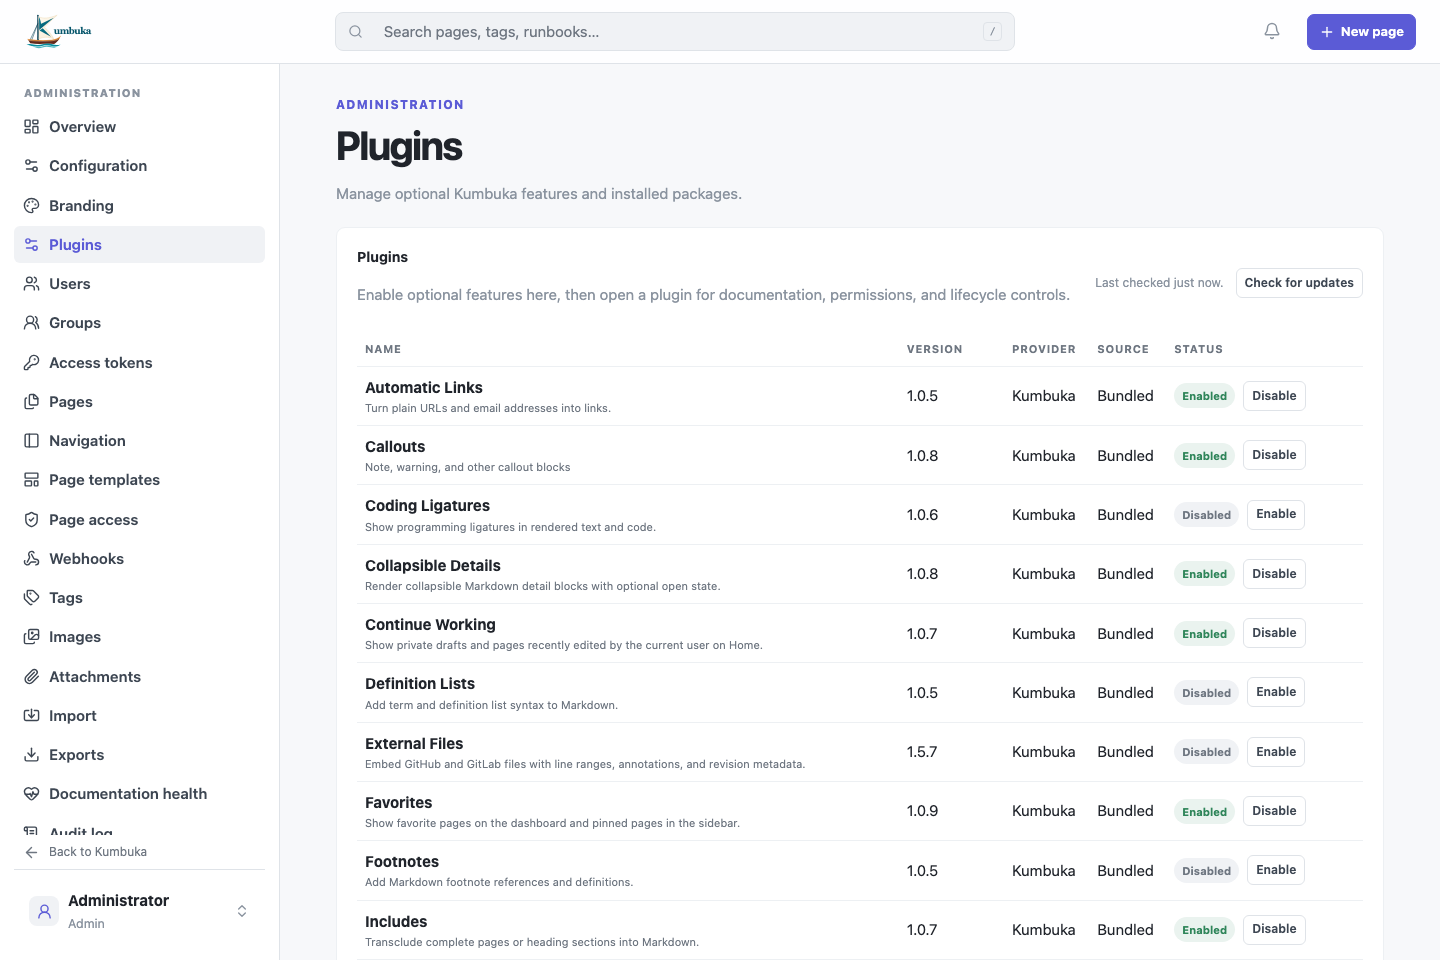
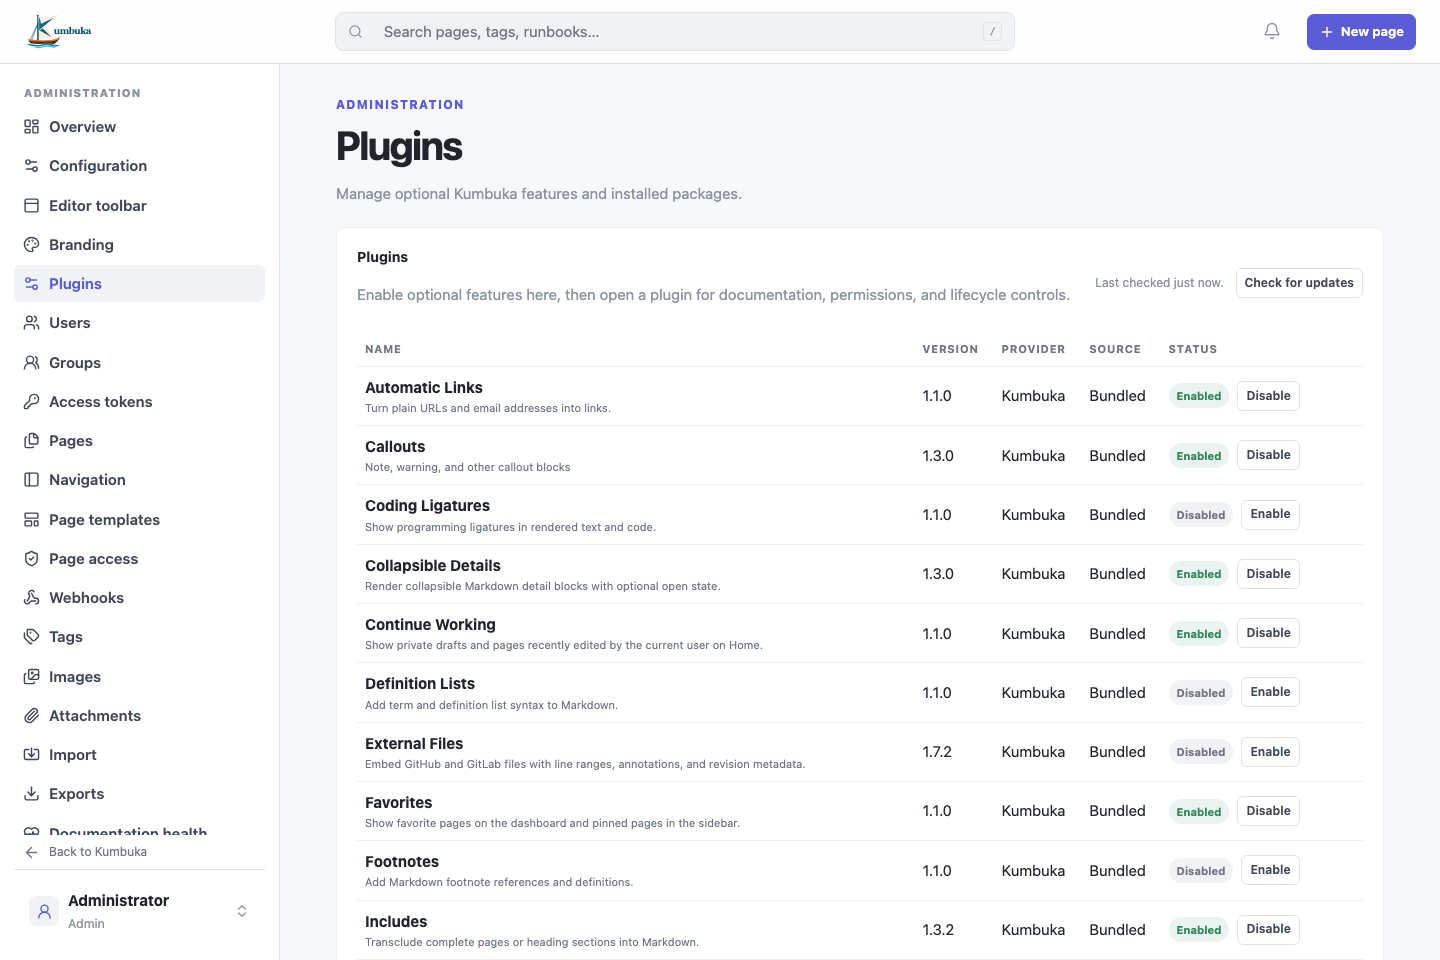
docs: update screenshots

diff --git a/content/administration/index.md b/content/administration/index.md
@@ -2,7 +2,9 @@
 
 ## Editor toolbar
 
-Open **Administration → Configuration → Editor toolbar** to customize plugin contributions globally. Each row shows the contribution and plugin, its current semantic group, visibility, and numeric order. Only groups allowed by the plugin are offered. Numeric ordering controls provide an accessible alternative to drag and drop, and **Reset** restores the plugin's manifest defaults.
+Open **Administration → Editor toolbar** to customize plugin contributions globally. Each row shows the contribution and plugin, its current semantic group, visibility, and numeric order. Only groups allowed by the plugin are offered. Numeric ordering controls provide an accessible alternative to drag and drop, and **Reset** restores the plugin's manifest defaults.
+
+![Editor toolbar administration with plugin contributions and ordering controls](../assets/screenshots/admin-editor-toolbar.png)
 
 Overrides use stable plugin and contribution IDs, so they survive plugin upgrades. Disabled, removed, or renamed contributions are ignored without breaking the editor; an override is retained so it can apply again if the same stable contribution returns.
 

diff --git a/scripts/screenshots/README.md b/scripts/screenshots/README.md
@@ -20,12 +20,16 @@ The runner writes these generated images under `assets/screenshots/`:
 
 - `dashboard.png`
 - `editor.png`
+- `editor-visual.png`
+- `editor-visual-table.png`
 - `knowledge-graph.png`
 - `admin-plugins.png`
+- `admin-editor-toolbar.png`
+- `admin-plugin-settings.png`
 - `inline-suggestion.png`
 - `review-suggestion.png`
 - `documentation-health.png`
 
 Plugin previews are maintained in the plugins repository and synchronized into `assets/plugins/` with their generated documentation. This runner only replaces application screenshots directly under `assets/screenshots/`.
 
-Use `SCREENSHOT_VISITS` to control which imported pages are visited before capturing the dashboard and `SCREENSHOT_EDITOR_SLUG` to choose the page opened in the editor screenshot.
+Use `SCREENSHOT_VISITS` to control which imported pages are visited before capturing the dashboard and `SCREENSHOT_EDITOR_SLUG` to choose the page used for the Markdown-preview and primary visual-editor screenshots. The visual table screenshot uses the imported `content/lifecycle` page so it always has a real Markdown table to select.

diff --git a/content/content/editor.md b/content/content/editor.md
@@ -2,9 +2,15 @@
 
 The editor is available to `admin` and `editor` users and works directly with Markdown.
 
-![Kumbuka Markdown editor showing this page in split view](../assets/screenshots/editor.png)
+![Kumbuka Markdown editor with the preview panel open](../assets/screenshots/editor.png)
 
-The editor opens in your last **Write** or **Split** view. **Preview** is temporary and is not saved as the starting view.
+The editor opens in your last **Markdown** or **Visual** mode. **Preview** is a temporary Markdown subview and is not saved as the starting mode.
+
+## Visual editing
+
+Choose **Visual** to edit rendered content directly while Kumbuka keeps the Markdown source synchronized.
+
+![Kumbuka visual editor showing the imported documentation](../assets/screenshots/editor-visual.png)
 
 ## Page fields
 

diff --git a/content/administration/plugins.md b/content/administration/plugins.md
@@ -4,7 +4,9 @@ Open **Administration → Plugins** to manage bundled and installed plugins. Onl
 
 The plugin list shows the name, version, provider, source, status, and available first-party updates. Open a plugin to view its documentation, permissions, dependencies, modules, and lifecycle actions. Provider names come from the package author and are not verification badges.
 
-Plugins with administrator-managed configuration appear under **Administration → Plugin settings**.
+Plugins with administrator-managed configuration appear under **Plugin settings** in the administration sidebar.
+
+![Plugin settings for the bundled Tables plugin](../assets/screenshots/admin-plugin-settings.png)
 
 ![Plugin administration with bundled plugin status and update controls](../assets/screenshots/admin-plugins.png)
 

diff --git a/content/content/tables.md b/content/content/tables.md
@@ -23,3 +23,5 @@ gray blue purple green yellow orange red
 `sortable` enables client-side column sorting. `filterable` adds per-column filtering controls. Disable the Tables plugin to stop table rendering. Its settings independently control table colors, sorting, and filtering.
 
 The editor's table tools can apply the same directive-based formatting without requiring authors to memorize the syntax.
+
+![Visual editor with a Markdown table selected and table controls visible](../assets/screenshots/editor-visual-table.png)
